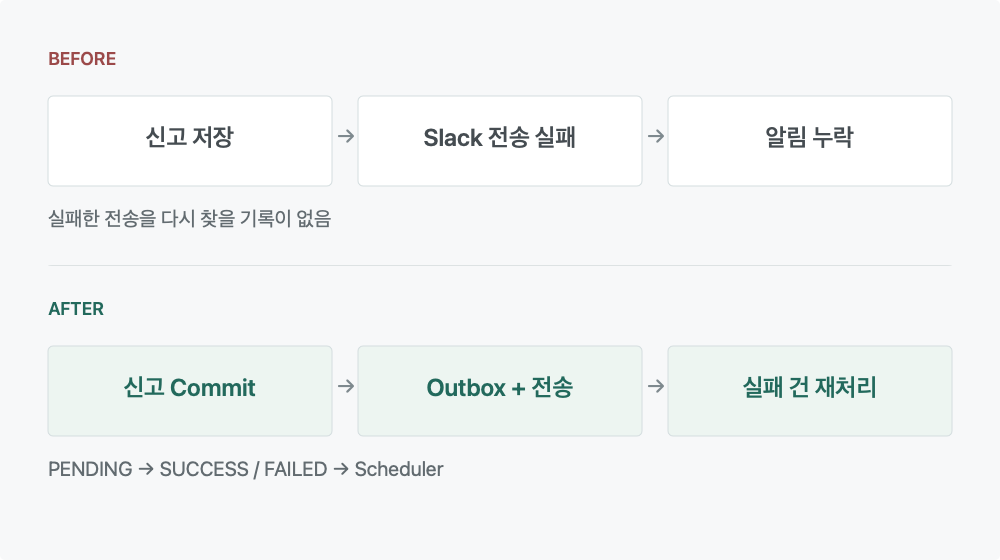
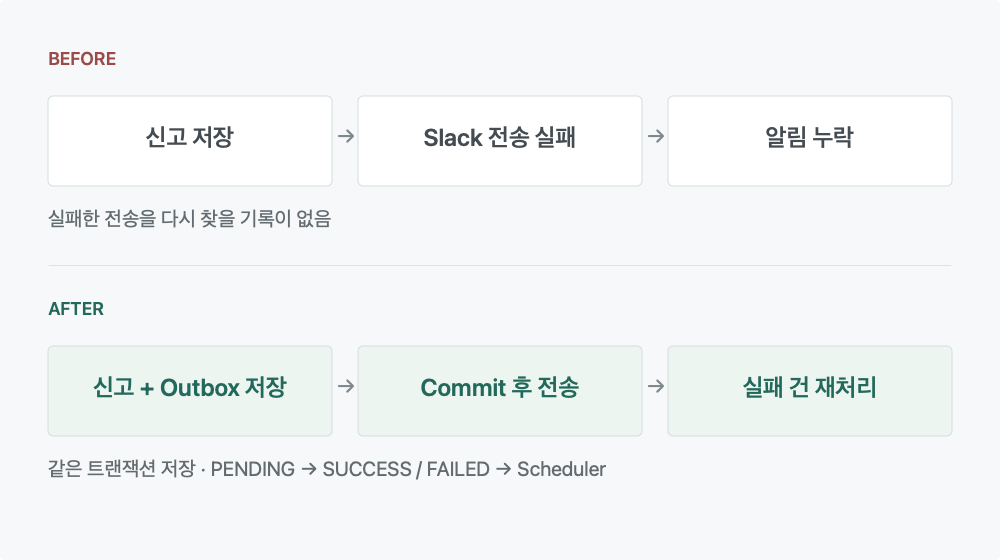
feat: 개발 한 스푼 개발·운영 기간을 줄 분리하고 신고 알림 포트폴리오 갱신
- 개발 2024.03 ~ 2024.06 / 운영 2024.01 ~ 2025.01을 각각 다른 줄로 표시
  (dates/period를 리스트로 받고 템플릿에서 줄바꿈 렌더링)
- 신고 알림 섹션을 신고+Outbox 동일 트랜잭션 저장, 커밋 후 전송,
  1·5·15분 재처리(최대 4회) 구조로 갱신
- 썸네일 이미지와 생성 스크립트 문구 갱신

Changed region(s): [[0.031, 0.8196, 0.62, 0.85], [0.093, 0.6679, 0.31, 0.7286], [0.403, 0.6679, 0.589, 0.7286]]

diff --git a/portfolio/adevspoon.html b/portfolio/adevspoon.html
@@ -72,62 +72,68 @@ fun getOrCreateTodayQuestion(request: GetTodayQuestion): QuestionInfo {
 
 <section class="experience" id="report-notification" aria-labelledby="report-title">
   <header class="experience-heading">
-    <p class="eyebrow">02 / RELIABILITY · Transactional Event, Outbox, Scheduler</p>
+    <p class="eyebrow">02 / RELIABILITY · Transactional Outbox, Scheduler</p>
     <h2 id="report-title">누락된 신고 알림을 복구 가능한 작업으로</h2>
     <p class="problem"><strong>문제</strong>운영 중 신고 데이터는 저장됐지만 Slack 알림이 누락되는 사례가 발생했습니다.</p>
   </header>
   {% include portfolio/report-notification.html %}
   <div class="analysis-grid">
     <div>
-      <h3 class="section-label">판단 근거</h3>
-      <p class="decision-lead">신고 저장과 Slack 전송은<br>성공 기준이 다른 작업이었습니다.</p>
+      <h3 class="section-label">원인과 판단 근거</h3>
+      <p class="decision-lead">실패를 감지하는 것과<br>작업을 잃지 않는 것은 별개의 문제였습니다.</p>
       <ul class="decision-list">
-        <li><strong>장애 범위 분리:</strong> 신고 커밋 이후 이벤트로 외부 호출을 옮겨 저장과 알림 실패가 서로 영향을 주지 않게 했습니다.</li>
-        <li><strong>재처리 근거 확보:</strong> 발송 상태·실패 사유·payload를 Outbox에 남겨 실패한 작업을 다시 찾을 수 있게 했습니다.</li>
-        <li><strong>상태 영속화:</strong> Outbox 생성과 상태 변경은 별도 서비스의 <code>REQUIRES_NEW</code> 트랜잭션으로 처리했습니다.</li>
+        <li><strong>원인 확인:</strong> 리스너 미실행·예외 은폐·외부 API 실패로 가설을 나눠 검증한 결과, Slack의 HTTP 오류 응답(4xx·5xx)을 검사하지 않아 실패를 감지하지 못했습니다.</li>
+        <li><strong>구조적 한계:</strong> 전송 작업이 메모리에만 존재해 외부 API 장애나 서버 재시작 시 미완료 작업을 복구할 수 없었습니다.</li>
+        <li><strong>동일 트랜잭션 저장:</strong> AOP 실행 순서를 조정해 신고 데이터와 Outbox를 같은 트랜잭션에 저장하고, 전송만 커밋 이후로 미뤘습니다.</li>
+        <li><strong>중복 선점 방지:</strong> 조건부 UPDATE와 행 잠금으로 다중 인스턴스가 같은 작업을 동시에 처리하지 않게 했습니다.</li>
       </ul>
       <details>
         <summary>재처리 조건과 횟수 기준</summary>
-        <p>스케줄러는 1분 간격으로, 생성 후 5분이 지난 PENDING / FAILED 중 <code>retry_count &lt; 3</code>인 작업을 조회합니다. 현재 카운터는 최초 전송을 포함해 실패할 때 증가하므로, 실패 누적 3회가 되면 자동 재처리를 중단합니다.</p>
+        <p>스케줄러는 1분 간격으로 재처리 대상을 조회합니다. 최초 전송을 포함해 최대 4회 시도하며, 실패 후 다음 시도는 1분·5분·15분 뒤입니다. 408·429·5xx는 재시도하고 429 응답의 <code>Retry-After</code>는 다음 시도 시각에 반영합니다. 그 외 4xx는 재시도해도 같은 결과이므로 즉시 최종 실패로 처리합니다.</p>
       </details>
     </div>
     <div>
-      <div class="code-title"><h3 class="section-label">핵심 코드</h3><span>Kotlin · 발송 흐름 발췌</span></div>
+      <div class="code-title"><h3 class="section-label">핵심 코드</h3><span>Kotlin · 발췌</span></div>
 {% highlight kotlin %}
+// 신고를 저장하는 @Transactional 메서드 안에서 실행되는 AOP
+private fun bugReportEventPublish(result: Any?) {
+    val event = (result as? ReportEvent) ?: throw ReportEventInvalidReturnException()
+    val outbox = reportOutboxService.createPending(
+        report = event.report,
+        slackPayload = objectMapper.writeValueAsString(event.toSpecificMap())
+    )
+    eventPublisher.publishEvent(ReportOutboxCreatedEvent(outbox.id))
+}
+
+// 커밋 이후 최초 전송. 스케줄러 재처리도 같은 attemptSend를 거친다.
 @Async
 @TransactionalEventListener(phase = TransactionPhase.AFTER_COMMIT)
-fun sendReportAlarm(event: ReportEvent) {
-    val payload = event.toSpecificMap()
-    val outbox = reportOutboxService.createPending(
-        event.report, objectMapper.writeValueAsString(payload)
-    )
-    runCatching {
-        alarmAdapter.sendAlarm(AlarmType.REPORT, payload)
-    }.onSuccess {
-        reportOutboxService.markSuccess(outbox.id)
-    }.onFailure {
-        reportOutboxService.markFailed(outbox.id, failureReason(it))
-    }
+fun sendReportAlarm(event: ReportOutboxCreatedEvent) {
+    reportOutboxService.attemptSend(event.reportOutboxId)
 }
 {% endhighlight %}
-      <p class="code-note">바깥쪽 예외 로깅은 생략했습니다. 상태 변경 메서드는 별도 트랜잭션에서 커밋됩니다.</p>
+      <p class="code-note">예외 로깅은 생략했습니다. attemptSend는 조건부 UPDATE로 작업을 선점한 뒤 전송하고, 결과(성공·재시도 예정·최종 실패)를 같은 트랜잭션에서 기록합니다.</p>
     </div>
   </div>
   <div class="verification">
     <h3 class="section-label">검증 결과</h3>
     <div class="metrics">
-      <div class="metric"><strong>FAILED</strong><span>Webhook 예외 발생 시 기록</span></div>
-      <div class="metric"><strong>SUCCESS</strong><span>스케줄러 재전송 성공 시 전환</span></div>
-      <div class="metric"><strong>3회 실패</strong><span>자동 재처리 중단 기준</span></div>
+      <div class="metric"><strong>22개</strong><span>단위·HTTP·통합 테스트 통과</span></div>
+      <div class="metric"><strong>8개 스레드</strong><span>동시 처리 시 단일 발송 검증</span></div>
+      <div class="metric"><strong>최대 4회</strong><span>최초 전송 포함 자동 재처리 한도</span></div>
     </div>
     <figure class="outbox-example">
-      <figcaption>Outbox 상태 전환 예시 · 아래 두 행은 동일 작업의 실패 후 복구를 표현합니다.</figcaption>
+      <figcaption>Outbox에 남기는 상태 · 전송 상태, 시도 횟수, HTTP 상태, 실패 사유</figcaption>
       <table>
-        <thead><tr><th scope="col">status</th><th scope="col">retry_count</th><th scope="col">failure_reason</th></tr></thead>
-        <tbody><tr><td class="status-failed">FAILED</td><td>1</td><td>Webhook Timeout</td></tr><tr><td class="status-success">SUCCESS</td><td>1</td><td>—</td></tr></tbody>
+        <thead><tr><th scope="col">검증 항목</th><th scope="col">결과</th></tr></thead>
+        <tbody>
+          <tr><td>동일한 HTTP 500 응답</td><td>기존: 실패를 감지하지 못함 → 개선: 오류 기록 및 재시도 대상으로 전환 (Before/After 테스트)</td></tr>
+          <tr><td>트랜잭션 원자성</td><td>Testcontainers MySQL 기반으로 검증</td></tr>
+          <tr><td>전체 흐름</td><td>신고 저장부터 커밋 후 알림 전송, 실패 재처리까지 검증</td></tr>
+        </tbody>
       </table>
     </figure>
-    <p>Mock 기반 단위 테스트로 발송 성공·실패, 재처리 상태 전환과 조회 조건을 확인했습니다. 실제 DB 커밋 경계 및 프로세스 종료 복구는 별도 통합 검증 대상입니다.</p>
+    <p>MockWebServer로 HTTP 500·404 응답을 재현해 기존 코드의 오류 감지 누락을 확인했고, 같은 시나리오로 개선 후 동작을 비교했습니다.</p>
   </div>
-  <aside class="limits"><h3>한계 · 다음 단계</h3><p>현재 Outbox는 신고 커밋 이후 생성됩니다. 그 사이 프로세스가 종료되면 작업 자체가 기록되지 않을 수 있어, 신고와 Outbox를 같은 트랜잭션에 저장하는 보완이 필요합니다. 전송 성공 후 상태 기록이 실패하면 알림이 중복될 가능성도 남습니다.</p></aside>
+  <aside class="limits"><h3>한계 · 다음 단계</h3><p>전송 도중 서버가 종료되면 트랜잭션이 롤백되어 다음 주기에 다시 시도되므로(at-least-once), 전송 성공 직후 장애가 나면 같은 알림이 중복될 수 있습니다. 또한 Slack 응답을 기다리는 동안 DB 커넥션과 해당 행의 잠금을 점유합니다. 신고 알림은 발생 빈도가 낮아 이 비용을 감수했습니다.</p></aside>
 </section>

diff --git a/_includes/portfolio/report-notification.html b/_includes/portfolio/report-notification.html
@@ -10,12 +10,12 @@
     </div>
     <div class="diagram-side after">
       <div class="diagram-label">AFTER <span>커밋 후 처리 + 상태 기반 복구</span></div>
-      <div class="flow"><div class="node">신고 저장</div><span class="arrow" aria-hidden="true">→</span><div class="node good">Commit</div></div>
+      <div class="flow"><div class="node">신고 + Outbox 저장<small>동일 트랜잭션</small></div><span class="arrow" aria-hidden="true">→</span><div class="node good">Commit</div></div>
       <div class="down" aria-hidden="true">↓</div>
-      <div class="node">AFTER_COMMIT 이벤트<small>Outbox PENDING 기록 → Slack 전송</small></div>
+      <div class="node">AFTER_COMMIT 이벤트<small>조건부 선점 → Slack 전송</small></div>
       <div class="down" aria-hidden="true">↓</div>
       <div class="split-path"><div class="node good">SUCCESS</div><div class="node risk">FAILED</div></div>
-      <p class="flow-caption"><strong>Scheduler ↻</strong> PENDING / FAILED 재처리</p>
+      <p class="flow-caption"><strong>Scheduler ↻</strong> 1·5·15분 간격 · 최초 포함 최대 4회</p>
     </div>
   </div>
 </figure>

diff --git a/_layouts/portfolio.html b/_layouts/portfolio.html
@@ -14,7 +14,7 @@
     {% for project in site.data.portfolio %}
     <section class="project-section {{ project.id }}" aria-labelledby="{{ project.id }}-title">
       <header class="project-heading">
-        <div><p class="eyebrow">PROJECT {{ forloop.index | prepend: '0' }} / {{ project.period }}</p><h2 id="{{ project.id }}-title"><a href="{{ project.url | relative_url }}">{{ project.name }} <span aria-hidden="true">↗</span></a></h2><p>{{ project.summary }}</p></div>
+        <div><p class="eyebrow">PROJECT {{ forloop.index | prepend: '0' }} / {{ project.period | join: '<br>' }}</p><h2 id="{{ project.id }}-title"><a href="{{ project.url | relative_url }}">{{ project.name }} <span aria-hidden="true">↗</span></a></h2><p>{{ project.summary }}</p></div>
         <div class="project-meta"><span>{{ project.role }}</span><span>{{ project.stack | join: ' · ' }}</span></div>
       </header>
       <div class="case-previews">

diff --git a/_layouts/case.html b/_layouts/case.html
@@ -7,7 +7,7 @@
   <main id="main">
     <header class="project-intro wrap">
       <a class="back-link" href="{{ '/portfolio/' | relative_url }}"><span aria-hidden="true">←</span> 전체 프로젝트</a>
-      <p class="eyebrow">{{ project.period }} / {{ project.role }}</p>
+      <p class="eyebrow">{{ project.period | join: '<br>' }}<br>{{ project.role }}</p>
       <h1>{{ project.name }}</h1>
       <p class="project-subtitle">{{ project.summary }}</p>
       <p class="project-focus">{{ project.focus }}</p>

diff --git a/_includes/v1/left.html b/_includes/v1/left.html
@@ -7,7 +7,7 @@
     {%- endif -%}
     {%- if include.item.job_title -%}<p><b>{{ include.item.job_title }}</b></p>{%- endif -%}
     {%- if include.item.qualification -%}<p><b>{{ include.item.qualification }}</b></p>{%- endif -%}
-    {%- if include.item.dates -%}<p>{{ include.item.dates }}</p>{%- endif -%}
+    {%- if include.item.dates -%}<p>{{ include.item.dates | join: '<br>' }}</p>{%- endif -%}
     {% for job in include.item.jobs %}
       <p><b>{{ job.title }}</b></p>
       <p>{{ job.dates }}</p>

diff --git a/_includes/v1/top-middle.html b/_includes/v1/top-middle.html
@@ -7,7 +7,7 @@
     {%- endif -%}
     {%- if include.item.job_title -%}<p><b>{{ include.item.job_title }}</b></p>{%- endif -%}
     {%- if include.item.qualification -%}<p><b>{{ include.item.qualification }}</b></p>{%- endif -%}
-    {%- if include.item.dates -%}<p>{{ include.item.dates }}</p>{%- endif -%}
+    {%- if include.item.dates -%}<p>{{ include.item.dates | join: '<br>' }}</p>{%- endif -%}
     {% for job in include.item.jobs %}
       <p><b>{{ job.title }}</b></p>
       <p>{{ job.dates }}</p>

diff --git a/_includes/v1/top-right.html b/_includes/v1/top-right.html
@@ -7,7 +7,7 @@
     {%- endif -%}
     {%- if include.item.job_title -%}<p><b>{{ include.item.job_title }}</b></p>{%- endif -%}
     {%- if include.item.qualification -%}<p><b>{{ include.item.qualification }}</b></p>{%- endif -%}
-    {%- if include.item.dates -%}<p>{{ include.item.dates }}</p>{%- endif -%}
+    {%- if include.item.dates -%}<p>{{ include.item.dates | join: '<br>' }}</p>{%- endif -%}
     {% for job in include.item.jobs %}
       <p><b>{{ job.title }}</b></p>
       <p>{{ job.dates }}</p>

diff --git a/_includes/v1/top.html b/_includes/v1/top.html
@@ -7,7 +7,7 @@
     {%- endif -%}
     {%- if include.item.job_title -%}<p><b>{{ include.item.job_title }}</b></p>{%- endif -%}
     {%- if include.item.qualification -%}<p><b>{{ include.item.qualification }}</b></p>{%- endif -%}
-    {%- if include.item.dates -%}<p>{{ include.item.dates }}</p>{%- endif -%}
+    {%- if include.item.dates -%}<p>{{ include.item.dates | join: '<br>' }}</p>{%- endif -%}
     {% for job in include.item.jobs %}
       <p><b>{{ job.title }}</b></p>
       <p>{{ job.dates }}</p>

diff --git a/_includes/v1/right.html b/_includes/v1/right.html
@@ -7,7 +7,7 @@
     {%- endif -%}
     {%- if include.item.job_title -%}<p><b>{{ include.item.job_title }}</b></p>{%- endif -%}
     {%- if include.item.qualification -%}<p><b>{{ include.item.qualification }}</b></p>{%- endif -%}
-    {%- if include.item.dates -%}<p>{{ include.item.dates }}</p>{%- endif -%}
+    {%- if include.item.dates -%}<p>{{ include.item.dates | join: '<br>' }}</p>{%- endif -%}
     {% for job in include.item.jobs %}
     <p><b>{{ job.title }}</b></p>
     <p>{{ job.dates }}</p>

diff --git a/scripts/render-portfolio-images.m b/scripts/render-portfolio-images.m
@@ -31,7 +31,7 @@ int main(int argc, const char *argv[]) {
         }
         NSArray *diagrams = @[
             @[@"daily-question", @[@"동시 요청 A / B", @"오늘 이력 없음", @"각각 신규 발급"], @[@"사용자별 Lock", @"최신 이력 재조회", @"기존 반환 / 발급"], @"동일한 발급 판단이 중복 실행", @"조회부터 저장까지 보호 · Commit 후 락 해제", @NO],
-            @[@"report-notification", @[@"신고 저장", @"Slack 전송 실패", @"알림 누락"], @[@"신고 Commit", @"Outbox + 전송", @"실패 건 재처리"], @"실패한 전송을 다시 찾을 기록이 없음", @"PENDING → SUCCESS / FAILED → Scheduler", @NO],
+            @[@"report-notification", @[@"신고 저장", @"Slack 전송 실패", @"알림 누락"], @[@"신고 + Outbox 저장", @"Commit 후 전송", @"실패 건 재처리"], @"실패한 전송을 다시 찾을 기록이 없음", @"같은 트랜잭션 저장 · PENDING → SUCCESS / FAILED → Scheduler", @NO],
             @[@"coupon-consistency", @[@"동시 요청 A / B", @"같은 재고 조회", @"각각 발급 진행"], @[@"Redisson Lock", @"조건부 재고 차감", @"UNIQUE 발급"], @"재고 초과 · 사용자별 중복 발급 가능", @"Redis는 경합 제어 · DB는 정합성 보호", @YES],
             @[@"popular-query", @[@"좋아요 100만 건", @"실시간 집계·정렬", @"Top 20 조회"], @[@"쓰기 시 집계 갱신", @"메타 + 인덱스", @"Top 20 조회"], @"조회할 때마다 GROUP BY + COUNT + ORDER BY", @"읽기 경로에서 반복 집계 제거", @YES]
         ];
